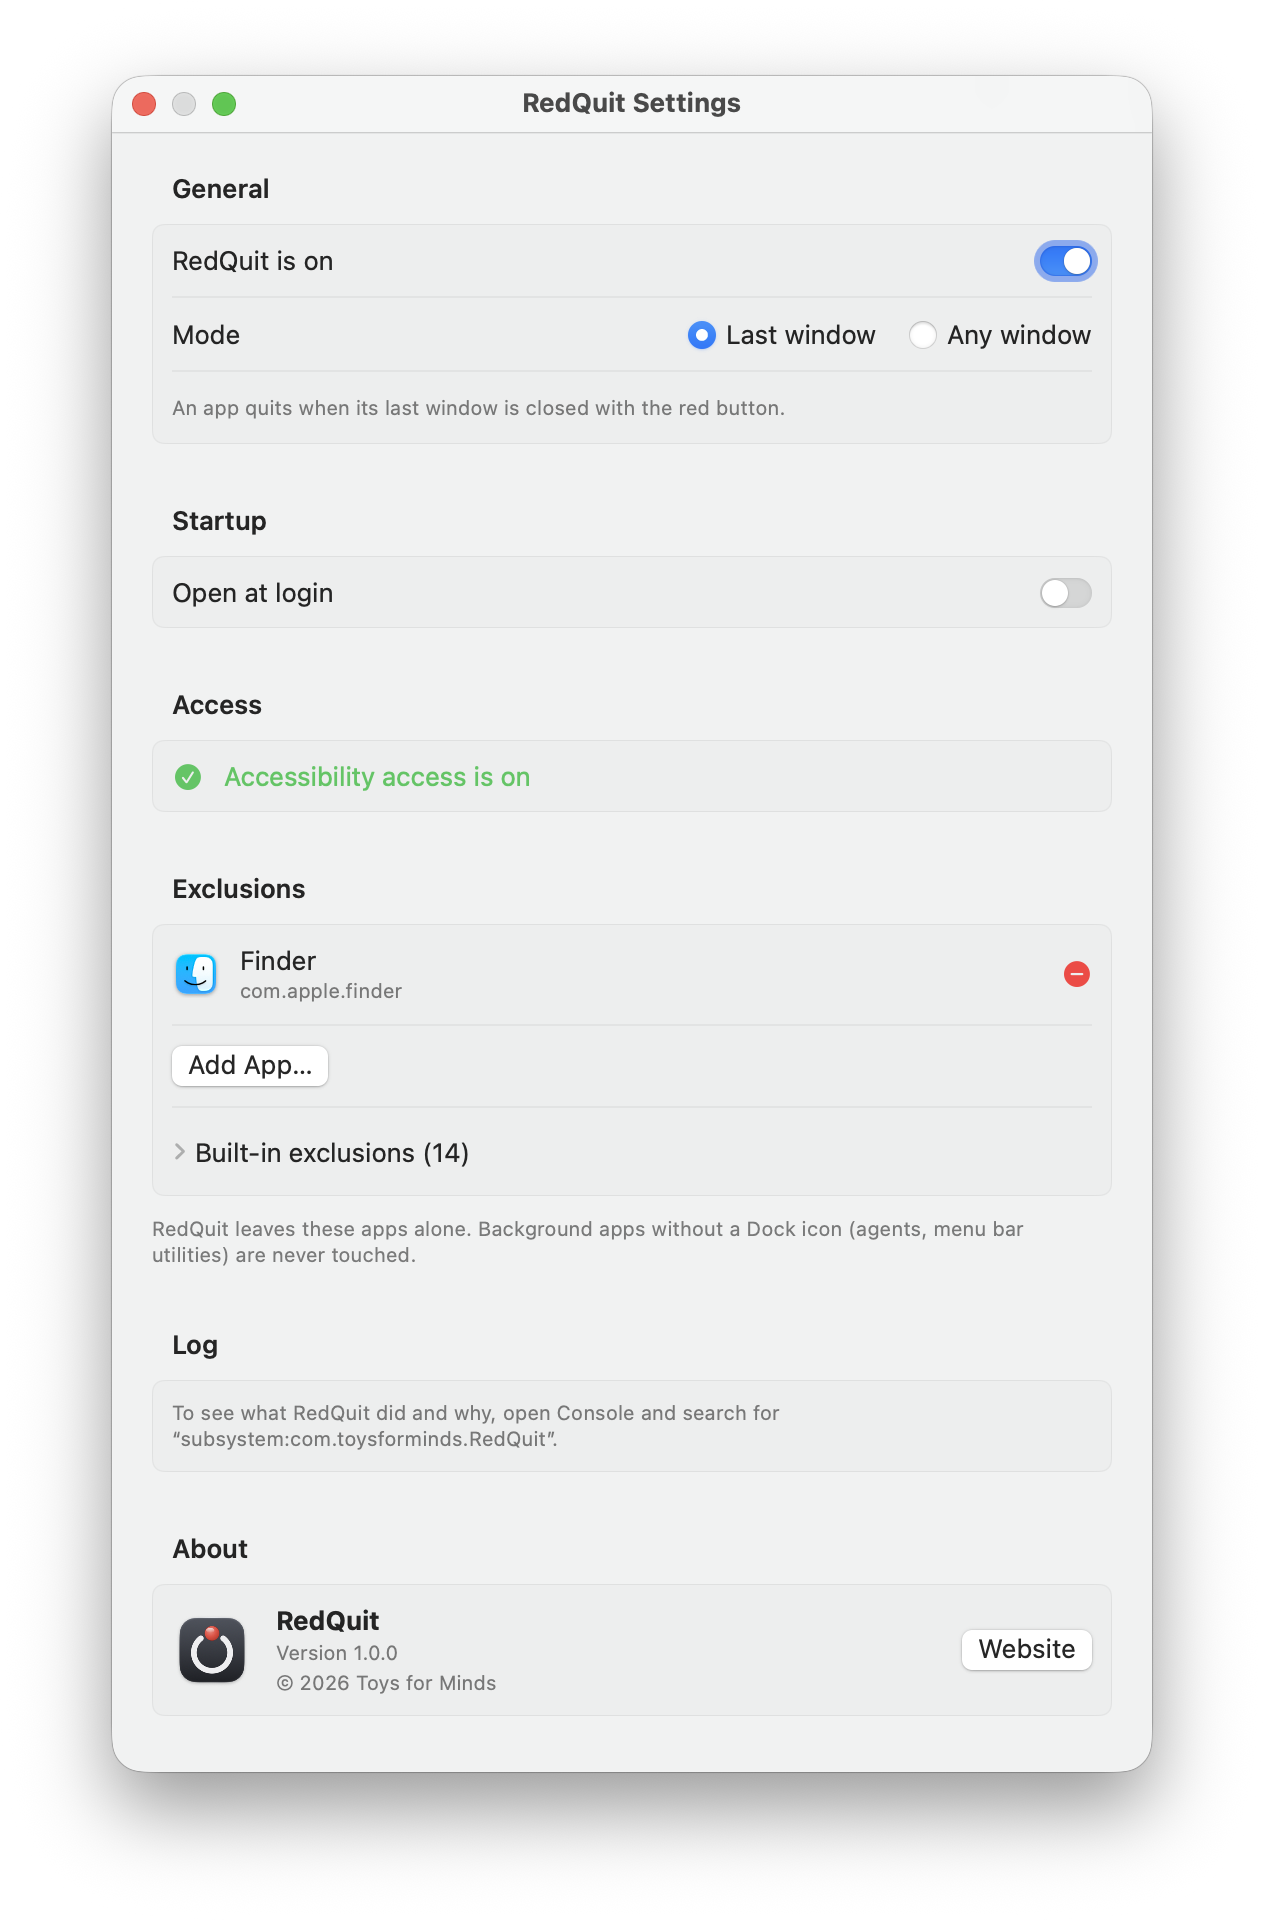
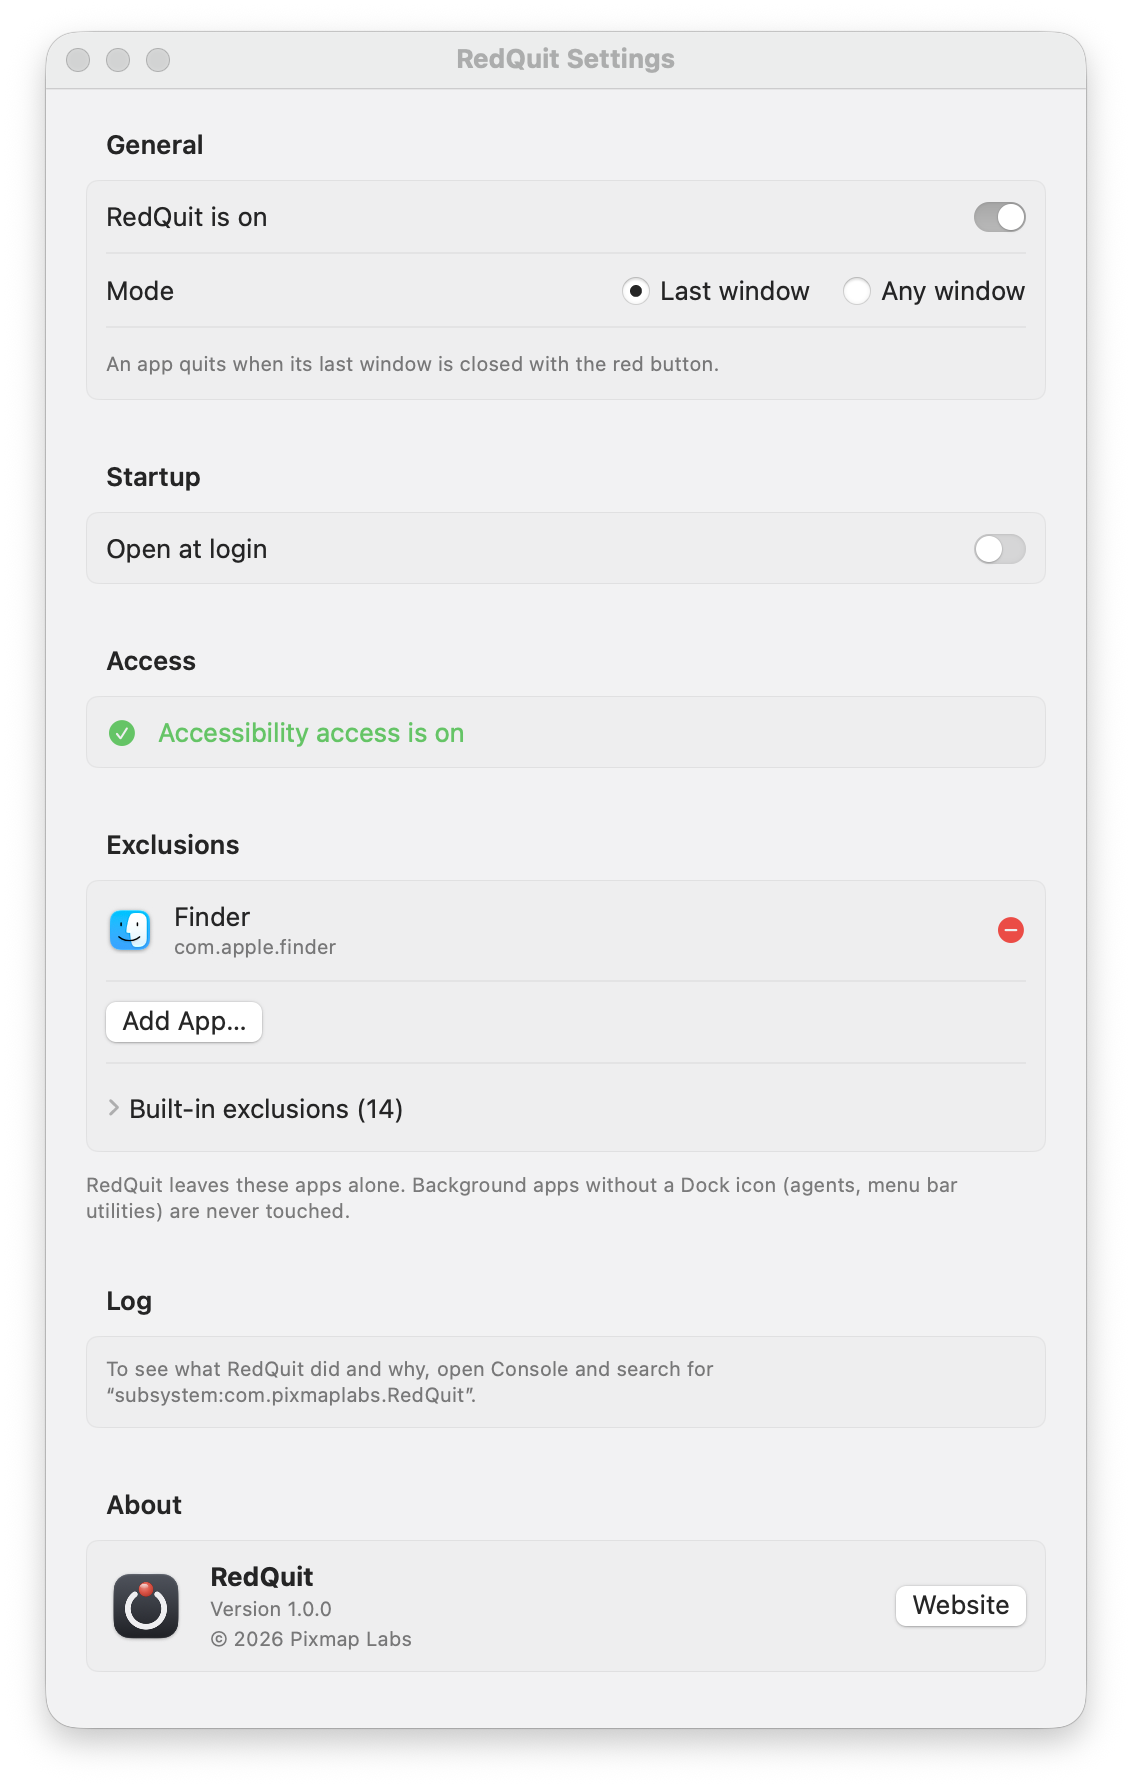
Издатель Pixmap Labs, bundle ID com.pixmaplabs.RedQuit
Лицензия, копирайт, раздел «О программе», README на 16 языках и логотип
в подвале README — Pixmap Labs. Скриншоты настроек и баннер пересняты.

diff --git a/Sources/RedQuit/Log.swift b/Sources/RedQuit/Log.swift
@@ -1,13 +1,13 @@
 import Foundation
 import os
 
-/// Журнал RedQuit. Смотреть в Console.app: фильтр «subsystem:com.toysforminds.RedQuit»,
-/// или в терминале: log stream --predicate 'subsystem == "com.toysforminds.RedQuit"' --level info
+/// Журнал RedQuit. Смотреть в Console.app: фильтр «subsystem:com.pixmaplabs.RedQuit»,
+/// или в терминале: log stream --predicate 'subsystem == "com.pixmaplabs.RedQuit"' --level info
 ///
 /// Решения пишутся с уровнем notice — они видны и сохраняются без включения отладки.
 /// Подробности для калибровки — info/debug.
 enum Log {
-    static let subsystem = Bundle.main.bundleIdentifier ?? "com.toysforminds.RedQuit"
+    static let subsystem = Bundle.main.bundleIdentifier ?? "com.pixmaplabs.RedQuit"
 
     /// Запуск, разрешения, настройки.
     static let app = Logger(subsystem: subsystem, category: "app")

diff --git a/Sources/RedQuit/Settings/SettingsView.swift b/Sources/RedQuit/Settings/SettingsView.swift
@@ -134,7 +134,7 @@ struct SettingsView: View {
                     VStack(alignment: .leading, spacing: 2) {
                         Text("RedQuit").font(.headline)
                         Text(L10n.aboutVersion(version)).font(.caption).foregroundStyle(.secondary)
-                        Text("© 2026 Toys for Minds").font(.caption).foregroundStyle(.secondary)
+                        Text("© 2026 Pixmap Labs").font(.caption).foregroundStyle(.secondary)
                     }
                     Spacer()
                     Button(L10n.aboutWebsite) { NSWorkspace.shared.open(Self.website) }

diff --git a/Tests/RedQuitCoreTests/ExclusionRulesTests.swift b/Tests/RedQuitCoreTests/ExclusionRulesTests.swift
@@ -3,7 +3,7 @@ import Testing
 
 @Suite("Исключения")
 struct ExclusionRulesTests {
-    let own = "com.toysforminds.RedQuit"
+    let own = "com.pixmaplabs.RedQuit"
 
     @Test("Программа без bundle ID не трогается")
     func noBundleID() {

diff --git a/docs/README.ar.md b/docs/README.ar.md
@@ -109,7 +109,7 @@ English, Русский, Українська, Español, Português (Brasil), Fr
 5. في وضع **النافذة الأخيرة**، يعدّ النوافذ المتبقية للتطبيق: النوافذ العادية والمصغّرة عبر تسهيلات الاستخدام، والنوافذ على أسطح المكتب الأخرى وفي وضع ملء الشاشة عبر خادم النوافذ.
 6. إذا لم يتبقَّ شيء (أو في وضع **أي نافذة**)، يطلب RedQuit من التطبيق إنهاء نفسه، تمامًا مثل ⌘Q.
 
-كلما لم يكن RedQuit متأكدًا، يترك التطبيق قيد التشغيل. ويُسجَّل كل قرار في سجل النظام: افتح تطبيق **السِّجل** (Console) وابحث عن `subsystem:com.toysforminds.RedQuit`.
+كلما لم يكن RedQuit متأكدًا، يترك التطبيق قيد التشغيل. ويُسجَّل كل قرار في سجل النظام: افتح تطبيق **السِّجل** (Console) وابحث عن `subsystem:com.pixmaplabs.RedQuit`.
 
 ## البناء من المصدر
 
@@ -146,8 +146,8 @@ RedQuit برنامج مجاني (freeware). يمكنك استخدامه مجان
 ---
 
 <p align="center">
-  <img src="../.github/toys-for-minds.png" width="120" alt="Toys for Minds"><br>
-  <sub>من صنع Toys for Minds</sub>
+  <img src="../.github/pixmap-labs.png" width="120" alt="Pixmap Labs"><br>
+  <sub>من صنع Pixmap Labs</sub>
 </p>
 
 </div>

diff --git a/docs/README.tr.md b/docs/README.tr.md
@@ -107,7 +107,7 @@ RedQuit, Mac’inizin dilini kullanır. Yalnızca RedQuit için başka bir dil s
 5. **Son pencere** modunda uygulamanın kalan pencerelerini sayar: Normal ve simge durumuna küçültülmüş pencereleri Erişilebilirlik aracılığıyla, diğer masaüstlerindeki ve tam ekrandaki pencereleri ise pencere sunucusu aracılığıyla.
 6. Hiç pencere kalmadıysa (veya **Herhangi bir pencere** modunda) RedQuit, tıpkı ⌘Q gibi, uygulamadan çıkmasını ister.
 
-RedQuit emin olmadığı her durumda uygulamayı çalışır hâlde bırakır. Her karar sistem günlüğüne yazılır: **Konsol** uygulamasını açın ve `subsystem:com.toysforminds.RedQuit` ifadesini arayın.
+RedQuit emin olmadığı her durumda uygulamayı çalışır hâlde bırakır. Her karar sistem günlüğüne yazılır: **Konsol** uygulamasını açın ve `subsystem:com.pixmaplabs.RedQuit` ifadesini arayın.
 
 ## Kaynak koddan derleme
 
@@ -140,6 +140,6 @@ RedQuit ücretsiz bir yazılımdır (freeware). Evde veya işte ücretsiz olarak
 ---
 
 <p align="center">
-  <img src="../.github/toys-for-minds.png" width="120" alt="Toys for Minds"><br>
-  <sub>Toys for Minds tarafından yapıldı</sub>
+  <img src="../.github/pixmap-labs.png" width="120" alt="Pixmap Labs"><br>
+  <sub>Pixmap Labs tarafından yapıldı</sub>
 </p>

diff --git a/docs/README.de.md b/docs/README.de.md
@@ -107,7 +107,7 @@ RedQuit verwendet die Sprache Ihres Mac. Um nur für RedQuit eine andere Sprache
 5. Im Modus **Letztes Fenster** zählt es die verbleibenden Fenster der App: normale und im Dock abgelegte über die Bedienungshilfen, Fenster auf anderen Schreibtischen und im Vollbildmodus über den Window Server.
 6. Ist kein Fenster mehr übrig (oder im Modus **Jedes Fenster**), fordert RedQuit die App zum Beenden auf, genau wie ⌘Q.
 
-Wann immer RedQuit sich nicht sicher ist, lässt es die App weiterlaufen. Jede Entscheidung wird im Systemprotokoll festgehalten: Öffnen Sie die **Konsole** und suchen Sie nach `subsystem:com.toysforminds.RedQuit`.
+Wann immer RedQuit sich nicht sicher ist, lässt es die App weiterlaufen. Jede Entscheidung wird im Systemprotokoll festgehalten: Öffnen Sie die **Konsole** und suchen Sie nach `subsystem:com.pixmaplabs.RedQuit`.
 
 ## Aus dem Quellcode erstellen
 
@@ -140,6 +140,6 @@ RedQuit ist Freeware. Sie dürfen es kostenlos nutzen, zu Hause oder bei der Arb
 ---
 
 <p align="center">
-  <img src="../.github/toys-for-minds.png" width="120" alt="Toys for Minds"><br>
-  <sub>Entwickelt von Toys for Minds</sub>
+  <img src="../.github/pixmap-labs.png" width="120" alt="Pixmap Labs"><br>
+  <sub>Entwickelt von Pixmap Labs</sub>
 </p>

diff --git a/docs/README.fr.md b/docs/README.fr.md
@@ -107,7 +107,7 @@ RedQuit suit la langue de votre Mac. Pour choisir une autre langue pour RedQuit 
 5. En mode **Dernière fenêtre**, il compte les fenêtres restantes de l’app : les fenêtres ordinaires et celles placées dans le Dock via l’accessibilité, celles d’autres bureaux et en plein écran via le serveur de fenêtres.
 6. S’il ne reste plus rien (ou en mode **N’importe quelle fenêtre**), RedQuit demande à l’app de quitter, exactement comme ⌘Q.
 
-Dès que RedQuit a un doute, il laisse l’app tourner. Chaque décision est consignée dans le journal système : ouvrez **Console** et recherchez `subsystem:com.toysforminds.RedQuit`.
+Dès que RedQuit a un doute, il laisse l’app tourner. Chaque décision est consignée dans le journal système : ouvrez **Console** et recherchez `subsystem:com.pixmaplabs.RedQuit`.
 
 ## Compiler depuis les sources
 
@@ -140,6 +140,6 @@ RedQuit est un freeware. Vous pouvez l’utiliser gratuitement, chez vous ou au 
 ---
 
 <p align="center">
-  <img src="../.github/toys-for-minds.png" width="120" alt="Toys for Minds"><br>
-  <sub>Créé par Toys for Minds</sub>
+  <img src="../.github/pixmap-labs.png" width="120" alt="Pixmap Labs"><br>
+  <sub>Créé par Pixmap Labs</sub>
 </p>
